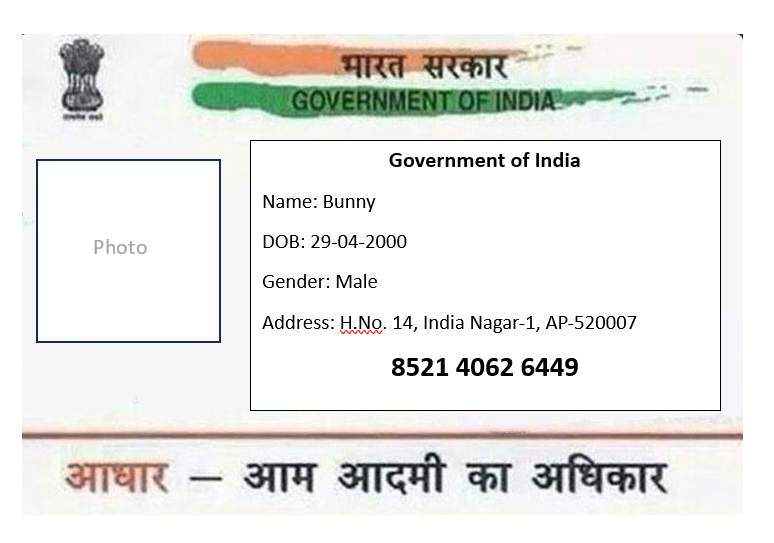
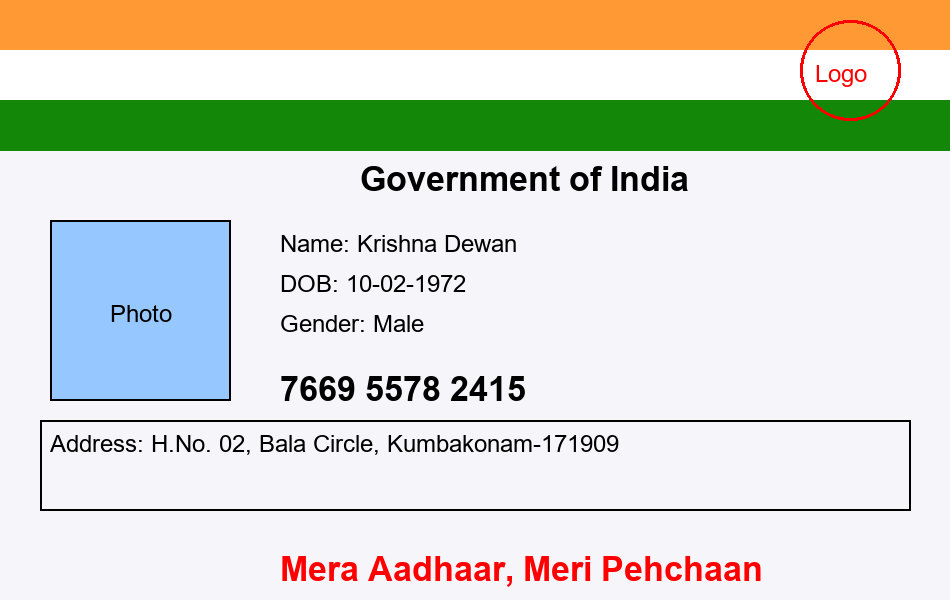
Add files via upload

diff --git a/aadhar_card.py b/aadhar_card.py
@@ -1,0 +1,72 @@
+
+from faker import Faker
+from PIL import Image, ImageDraw, ImageFont
+import random
+
+fake = Faker("en_IN")
+
+def generate_fake_aadhar_data():
+    """Generate random Aadhaar-like fake data"""
+    aadhaar_number = " ".join(
+        ["".join([str(random.randint(0, 9)) for _ in range(4)]) for _ in range(3)]
+    )
+    return {
+        "Name": fake.name(),
+        "Gender": random.choice(["Male", "Female"]),
+        "DOB": fake.date_of_birth(minimum_age=18, maximum_age=90).strftime("%d-%m-%Y"),
+        "Aadhaar Number": aadhaar_number,
+        "Address": fake.address().replace("\n", ", "),
+    }
+
+def create_aadhar_card_image(data, filename="aadhaar_style.png", theme_color=(255,255,255)):
+    """Draws Aadhaar-style card and saves as PNG"""
+    img = Image.new("RGB", (950, 600), color=theme_color)
+    draw = ImageDraw.Draw(img)
+
+    try:
+        font = ImageFont.truetype("arial.ttf", 24)
+        bold_font = ImageFont.truetype("arialbd.ttf", 34)
+    except:
+        font = ImageFont.load_default()
+        bold_font = font
+
+    draw.rectangle([0, 0, 950, 50], fill=(255, 153, 51)) 
+    draw.rectangle([0, 50, 950, 100], fill=(255, 255, 255))  
+    draw.rectangle([0, 100, 950, 150], fill=(19, 136, 8))  
+
+    draw.text((360, 160), "Government of India", font=bold_font, fill="black")
+
+    draw.ellipse([800, 20, 900, 120], outline="red", width=3)
+    draw.text((815, 60), "Logo", font=font, fill="red")
+
+    gender_color = (150, 200, 255) if data["Gender"] == "Male" else (255, 200, 220)
+    draw.rectangle([50, 220, 230, 400], fill=gender_color, outline="black", width=2)
+    draw.text((110, 300), "Photo", font=font, fill="black")
+
+    draw.text((280, 230), f"Name: {data['Name']}", font=font, fill="black")
+    draw.text((280, 270), f"DOB: {data['DOB']}", font=font, fill="black")
+    draw.text((280, 310), f"Gender: {data['Gender']}", font=font, fill="black")
+
+
+    draw.text((280, 370), data['Aadhaar Number'], font=bold_font, fill="black")
+
+    draw.rectangle([40, 420, 910, 510], outline="black", width=2)
+    draw.text((50, 430), f"Address: {data['Address']}", font=font, fill="black")
+
+    taglines = [
+        "Mera Aadhaar, Meri Pehchaan",
+        "Your Identity, Your Aadhaar",
+        "Aadhaar - Empowering Residents",
+        "Digital India with Aadhaar",
+        "Identity Made Simple"
+    ]
+    draw.text((280, 550), random.choice(taglines), font=bold_font, fill="red")
+
+    img.save(filename)
+    print(f"Aadhaar-style card saved as {filename}")
+
+themes = [(255,255,255), (245,245,250), (250,255,240), (255,248,220), (240,255,255)]
+
+for i in range(1, 6):
+    fake_data = generate_fake_aadhar_data()
+    create_aadhar_card_image(fake_data, filename=f"aadhaar_sample_{i}.png", theme_color=themes[i-1])

diff --git a/standard.py b/standard.py
@@ -1,0 +1,25 @@
+
+import pandas as pd
+import re
+
+df = pd.read_csv("extracted_cleaned_data.csv")
+
+def standardize_address(addr):
+    if not addr:
+        return ""
+    addr = re.sub(r"\bRd\b", "Road", addr, flags=re.IGNORECASE)
+    addr = re.sub(r"\bSt\b", "Street", addr, flags=re.IGNORECASE)
+    addr = re.sub(r"\bAve\b", "Avenue", addr, flags=re.IGNORECASE)
+    addr = re.sub(r"\s+", " ", addr) 
+    addr = re.sub(r"[^A-Za-z0-9\s,./#-]", "", addr) 
+    return addr.strip()
+
+df["Address"] = df["Address"].apply(standardize_address)
+df["Valid Aadhaar"] = df["Aadhaar Number"].apply(lambda x: len(str(x)) == 12)
+
+
+df.to_csv("final_aadhaar_data.csv", index=False, encoding="utf-8")
+df.to_json("final_aadhaar_data.json", orient="records", indent=4)
+
+print("Final standardized dataset saved as CSV + JSON")
+print(df)

diff --git a/cleaning.py b/cleaning.py
@@ -1,0 +1,31 @@
+import os
+import re
+
+input_folder = "ocr_texts"
+output_folder = "cleaned_texts"
+
+os.makedirs(output_folder, exist_ok=True)
+
+aadhaar_pattern = re.compile(r"\b\d{4}\s\d{4}\s\d{4}\b")
+
+for i in range(1, 6):  
+    input_file = os.path.join(input_folder, f"aadhaar_text_{i}.txt")
+    output_file = os.path.join(output_folder, f"aadhaar_cleaned_{i}.txt")
+
+    if not os.path.exists(input_file):
+        print(f"❌ File not found: {input_file}")
+        continue
+
+    with open(input_file, "r", encoding="utf-8") as f:
+        text = f.read()
+
+
+    text = re.sub(r"\s+", " ", text)
+
+    text = aadhaar_pattern.sub(lambda x: "XXXX XXXX " + x.group()[-4:], text)
+
+
+    with open(output_file, "w", encoding="utf-8") as f:
+        f.write(text)
+
+    print(f"Cleaned file saved: {output_file}")

diff --git a/ocr.py b/ocr.py
@@ -1,0 +1,20 @@
+
+from PIL import Image
+import os
+
+image_paths = [f"aadhaar_sample_{i}.png" for i in range(1, 6)]
+
+os.makedirs("ocr_texts", exist_ok=True)
+
+for i, img in enumerate(image_paths, 1):
+    try:
+        Image.open(img)
+
+        dummy_text = f"[Dummy OCR Output] Extracted text from {img}"
+        
+        with open(f"ocr_texts/aadhaar_text_{i}.txt", "w", encoding="utf-8") as f:
+            f.write(dummy_text)
+
+        print(f"Fake OCR extracted from {img} → saved to aadhaar_text_{i}.txt")
+    except Exception as e:
+        print(f"Failed to process {img} → {e}")
